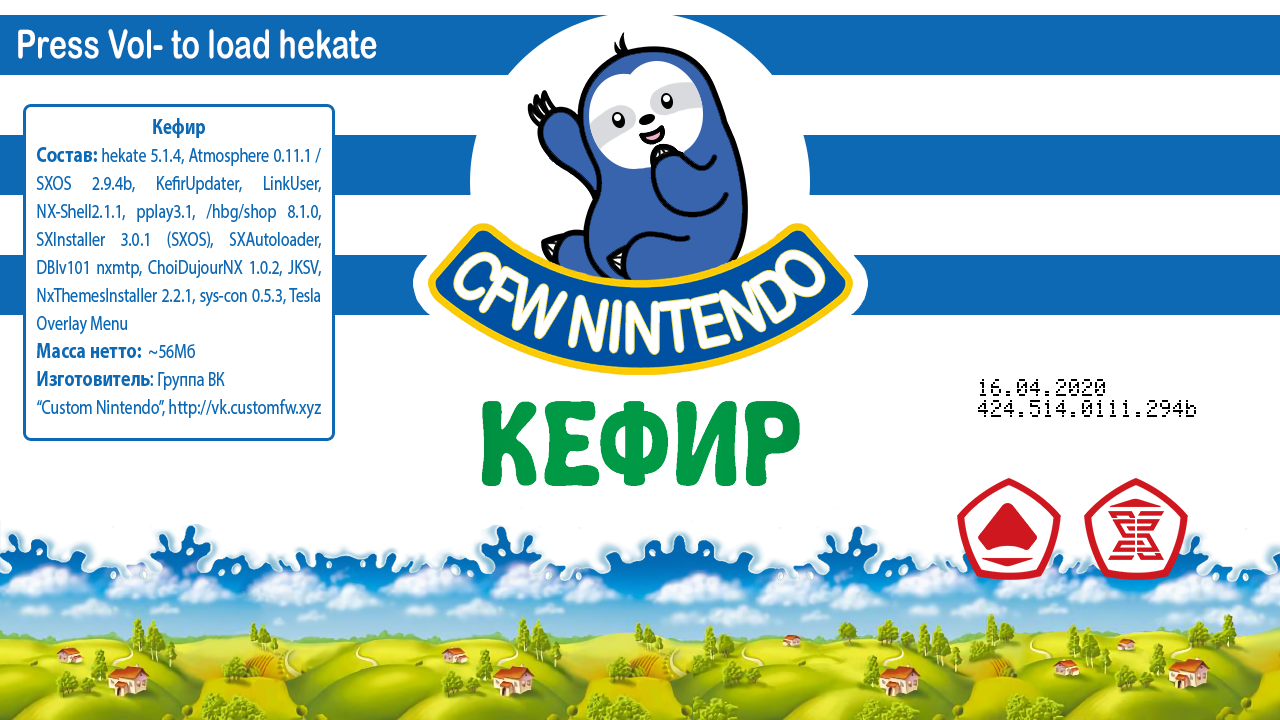
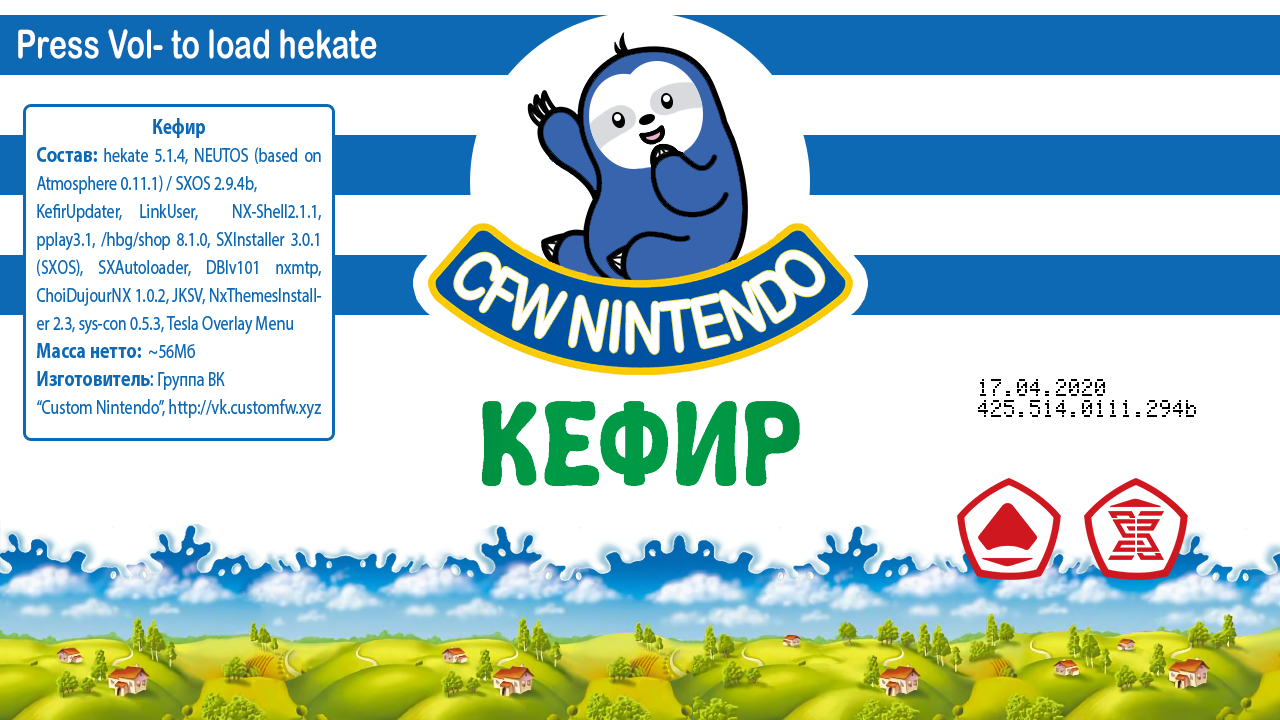
kefir425

Changed region(s): [[0.0312, 0.1833, 0.25, 0.4583]]

diff --git a/_pages/exploits.md b/_pages/exploits.md
@@ -5,9 +5,9 @@ author_profile: true
 ---
 {% include toc title="Разделы" %}
 
-В данный момент прошиваются не все приставки семейства Nintendo Switch. Поэтому первоочередной задачей станет определение того прошивается ли конкретно ваша консоль. 	Коротко о типах взлома. О том, что бывают приставки, которые можно прошить без денежных вложений и остальные.
+В данный момент прошиваются не все приставки семейства Nintendo Switch. Поэтому первоочередной задачей станет определение того прошивается ли конкретно ваша консоль.
 
-Существует два типа уязвимости. Первым, аппаратным, обладают только приставки, изготовленные до лета 2018-го года, впрочем их до сих пор можно найти в продаже. Приставки в которых уязвимость уже закрыта прошиваются только в том случае, если версия их официальной прошивки 4.1.0 или ниже. 	## Виды уязвимостей
+Существует два типа уязвимости. Первым, аппаратным, обладают только приставки, изготовленные до лета 2018-го года, впрочем их до сих пор можно найти в продаже. Приставки в которых уязвимость уже закрыта прошиваются только в том случае, если версия их официальной прошивки 4.1.0 или ниже. 
 
 Прежде чем начать, рекомендуется проверить свою SD-карту на ошибки с помощью [H2testw (Windows)](http://customfw.xyz/h2testw-windows){:target="_blank"}, [F3 (Linux)](http://customfw.xyz/f3-linux){:target="_blank"}, или [F3X (Mac)](http://customfw.xyz/f3x-mac){:target="_blank"}!
 

diff --git a/_pages/kefir.md b/_pages/kefir.md
@@ -23,11 +23,13 @@ author_profile: true
 ____
 
 ### Состав kefir 
-    
-* Atmosphere или SXOS
-* Поддерживает запуск через [Fusée Gelée](fusee-gelee){:target="_blank"} или [Caffeine](caffeine){:target="_blank"}
-* [hekate](https://github.com/CTCaer/hekate/releases/latest){:target="_blank"} и [ACID-патчи для неё](https://github.com/Joonie86/hekate/releases/latest){:target="_blank"}
-* Homebrew 
+
+* Кастомная прошивка на выбор: 
+  * [NEUTOS](https://github.com/borntohonk/NEUTOS/releases){:target="_blank"} - специальный форк Atmosphere OS, заточенный для работы с tinfoil и для беспроблемного запуска пиратских игр с приставки 
+  * [SXOS](https://sx.xecuter.com){:target="_blank"}
+* Загрузчик [hekate](https://github.com/CTCaer/hekate/releases/latest){:target="_blank"} поддерживает запуск через [Fusée Gelée](fusee-gelee){:target="_blank"} или [Caffeine](caffeine){:target="_blank"}
+* [hekate](https://github.com/CTCaer/hekate/releases/latest){:target="_blank"}
+* Установленное Homebrew 
   * [Kefir Updater](https://github.com/rashevskyv/kefir-updater/releases){:target="_blank"} - программа для обновления kefir через интернет
   * [NX-Shell](https://github.com/joel16/NX-Shell/releases/latest){:target="_blank"} - файловый менеджер
   * [FreshHay](https://github.com/devgru/FreshHay/releases){:target="_blank"} - программа для скачивания и распаковки рекомендуемой версии системного ПО прямо на приставке

diff --git a/_pages/cheats.md b/_pages/cheats.md
@@ -5,6 +5,14 @@ author_profile: true
 ---
 {% include toc title="Разделы" %}
 
+{% spoiler Видеоинструкция %}
+
+{% include youtube.html id="ask8jEZ9wsE" %}
+{: .text-center}
+{: .notice--info}
+
+{% endspoiler %}
+
 В SXOS есть свой инструмент для работы с читами, работа с читами SXOS рассмотрена в [официальном руководстве](https://sx.xecuter.com/download/manuals/sxos/[RU]_SXOS_v1.3.pdf){:target="_blank"} на странице 14.
 
 ## Подготовительные работы 
